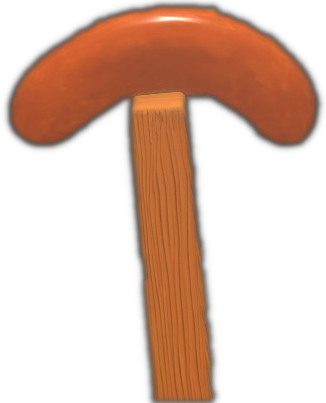
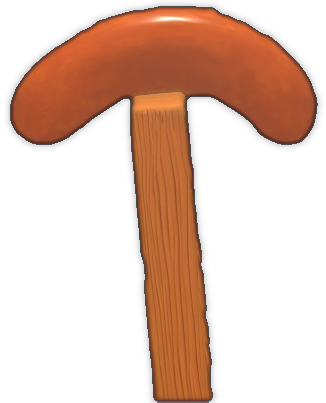
hotdog pointer

Changed region(s): [[0.0, 0.0, 1.0, 1.0]]

diff --git a/components/WheelCanvas.tsx b/components/WheelCanvas.tsx
@@ -140,15 +140,15 @@ function drawHotdog(context: CanvasRenderingContext2D, center: number, radius: n
     // Skip drawing until the image has decoded; the next frame will pick it up.
     if (!img.complete || img.naturalWidth === 0) return;
 
-    const tipX = center + radius - size * 0.01;
-    const backX = center + radius + size * 0.075;
+    const tipX = center + radius - size * 0.05;
+    const backX = center + radius + size * 0.1;
     const pointerWidth = backX - tipX;
     const pointerHeight = img.naturalHeight / img.naturalWidth * pointerWidth;
 
     // Pointing left toward the wheel; rotate 180° so the image's natural left is the tip.
     context.save();
     context.translate(tipX + pointerWidth / 2, center);
-    context.rotate(Math.PI);
+    context.rotate(-30 * Math.PI / 180);
     context.drawImage(img, -pointerWidth / 2, -pointerHeight / 2, pointerWidth, pointerHeight);
     context.restore();
 }
@@ -203,8 +203,11 @@ function draw(canvas: HTMLCanvasElement, entries: WheelEntry[], size: number, ro
     context.lineWidth = 4;
     context.stroke();
 
-    // drawPointer(context, center, radius, size);
-    drawHotdog(context, center, radius, size);
+    if(isClub){
+        drawHotdog(context, center, radius, size);
+    } else {
+        drawPointer(context, center, radius, size);
+    }
 }
 
 export default function WheelCanvas({ entries, className = '', isClub = true, onWinner }: Props) {
